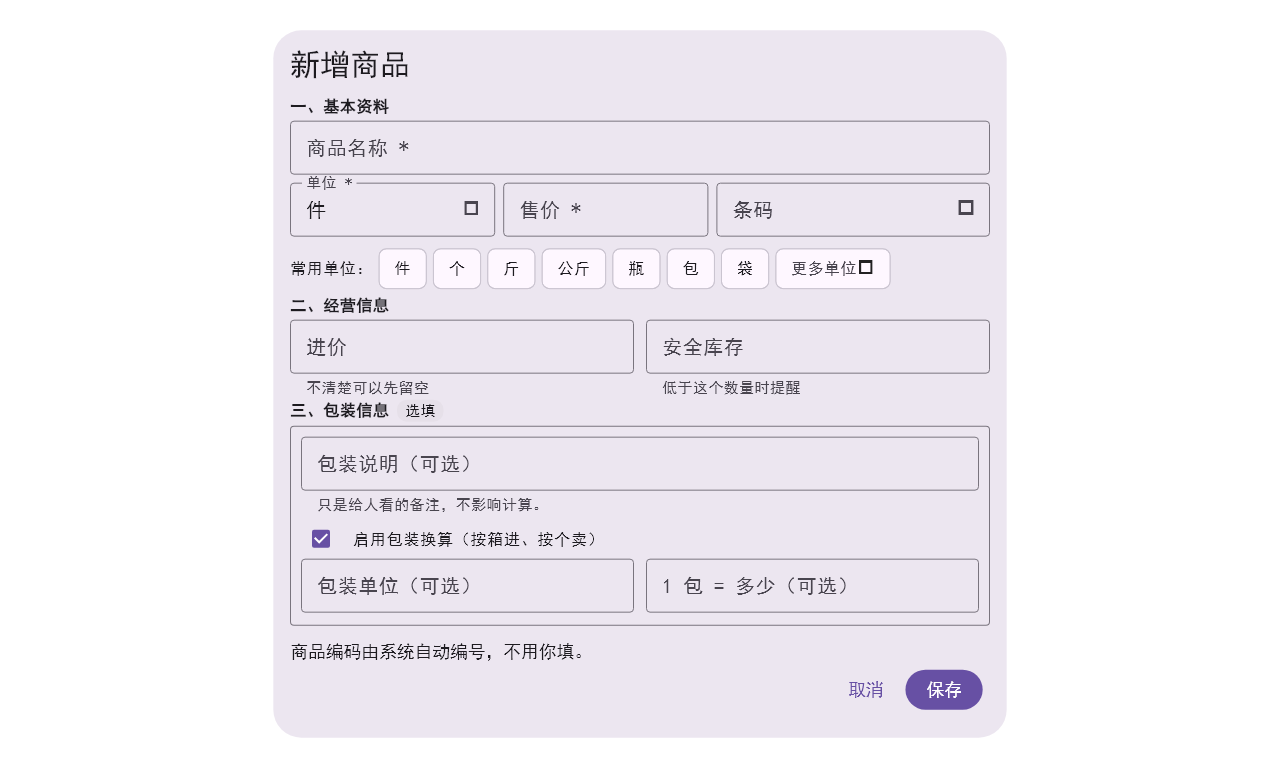
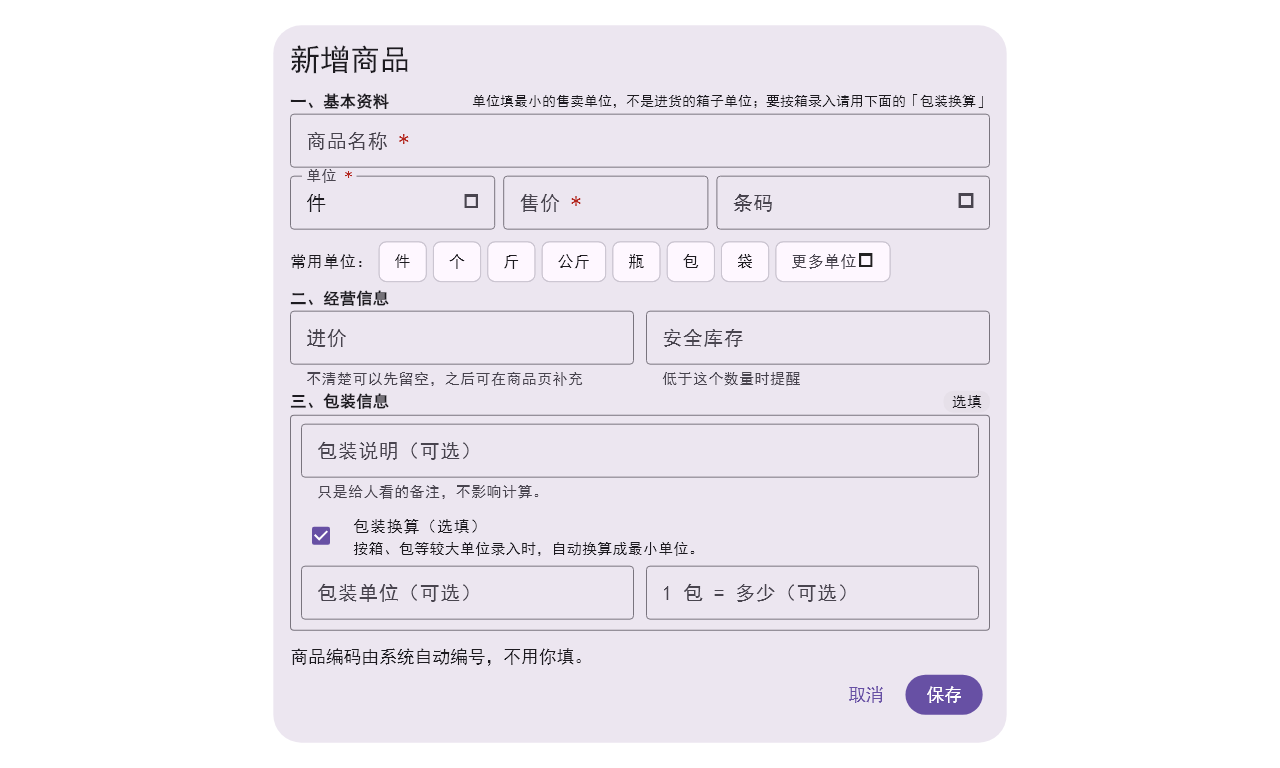
fix(ui): 商品建档文案修正（单位说明指向包装换算·包装提示动态·红星归位）+ 480×360 验收

Changed region(s): [[0.2188, 0.0312, 0.7812, 0.9688], [0.3438, 0.125, 0.7812, 0.1562]]

diff --git a/lib/src/ui/product_form_dialog.dart b/lib/src/ui/product_form_dialog.dart
@@ -412,6 +412,23 @@ class _ProductFormDialogState extends State<_ProductFormDialog> {
     _setUnit(picked);
   }
 
+  /// 包装换算那一行的说明（评审 2026-11-24 问题二：**别把「箱」写死**）。
+  ///
+  /// 一个槽位、两种消息：
+  /// - 没填全 ⇒ 说清它是干什么的；
+  /// - 填全 ⇒ 把它算出来的等式**读回来**（`1 箱 = 24 瓶 —— 开单时可以按「箱」录入。`）。
+  ///   填反了（24 箱 = 1 瓶）用户一眼就能看出来，不用等到开单时才发现。
+  String _packageSummary() {
+    final String unit = _packageUnit.text.trim();
+    final String size = _packageSize.text.trim();
+    if (unit.isEmpty || size.isEmpty) {
+      return '按箱、包等较大单位录入时，自动换算成最小单位。';
+    }
+    final String smallest = _unit.text.trim();
+    return '1 $unit = $size ${smallest.isEmpty ? '个' : smallest}'
+        ' —— 开单时可以按「$unit」录入。';
+  }
+
   /// 分段标题（一、二、三）—— 三段式重排的锚点。
   ///
   /// 为什么值得多花这两行高度：用户要能一眼看出「还有几段没填」。
@@ -420,8 +437,9 @@ class _ProductFormDialogState extends State<_ProductFormDialog> {
     ThemeData theme,
     String text, {
     bool optional = false,
+    String? trailing,
   }) => Padding(
-    padding: const EdgeInsets.only(top: 2, bottom: 4),
+    padding: const EdgeInsets.only(top: 2, bottom: 2),
     child: Row(
       children: <Widget>[
         Text(
@@ -435,6 +453,25 @@ class _ProductFormDialogState extends State<_ProductFormDialog> {
             color: theme.textTheme.bodyMedium?.color,
           ),
         ),
+        // 右侧小字：把一句说明塞进**已经存在的一行**里 —— 不新增高度。
+        // （125% + 768 的高度预算是 0 余量，任何"再加一行"都要付账。）
+        if (trailing != null) ...<Widget>[
+          const SizedBox(width: 10),
+          Expanded(
+            child: Text(
+              trailing,
+              textAlign: TextAlign.right,
+              maxLines: 2,
+              overflow: TextOverflow.ellipsis,
+              style: TextStyle(
+                fontSize: 11,
+                height: 1.3,
+                color: theme.textTheme.bodySmall?.color,
+              ),
+            ),
+          ),
+        ] else
+          const Spacer(),
         if (optional) ...<Widget>[
           const SizedBox(width: 8),
           Container(
@@ -466,7 +503,7 @@ class _ProductFormDialogState extends State<_ProductFormDialog> {
   /// 折叠区最贵的信息是「到底开没开」—— 复选框自己就带这个状态，
   /// 而折叠箭头+标题的组合会让人分不清"点了会展开"还是"点了会启用"。
   Widget _packageBlock(ThemeData theme) => Container(
-    padding: const EdgeInsets.fromLTRB(10, 10, 10, 4),
+    padding: const EdgeInsets.fromLTRB(10, 8, 10, 2),
     decoration: BoxDecoration(
       border: Border.all(color: theme.dividerColor),
       borderRadius: BorderRadius.circular(4),
@@ -496,9 +533,19 @@ class _ProductFormDialogState extends State<_ProductFormDialog> {
           contentPadding: EdgeInsets.zero,
           dense: true,
           visualDensity: VisualDensity.compact,
-          // 副标题删掉（2026-11-24 高度预算）：勾选后能干什么，标题已经把
-          // 「按箱进、按个卖」说完；再挂两行解释，125% 下要多占 40 px。
-          title: const Text('启用包装换算（按箱进、按个卖）'),
+          title: const Text('包装换算（选填）'),
+          // 副标题**一个槽位、两种消息**（评审问题二）：
+          // 没填 ⇒ 说清它是干什么的；填全 ⇒ 直接把它换算出来的等式读回来，
+          // 用户一眼能发现自己把「1 箱 = 24 瓶」填反了。
+          subtitle: Text(
+            _packageSummary(),
+            key: const Key('product-package-summary'),
+            style: TextStyle(
+              fontSize: 12,
+              height: 1.35,
+              color: theme.textTheme.bodySmall?.color,
+            ),
+          ),
         ),
         // 勾选后**平滑展开**两格（`AnimatedSize` 而不是直接跳出来 ——
         // 「凭空多出两行」会让用户以为点错了什么）
@@ -517,8 +564,9 @@ class _ProductFormDialogState extends State<_ProductFormDialog> {
                         child: TextField(
                           controller: _packageUnit,
                           textInputAction: TextInputAction.next,
-                          onChanged: (_) =>
-                              _clearError(ProductField.packageUnit),
+                          onChanged: (_) => setState(
+                            () => _clearError(ProductField.packageUnit),
+                          ),
                           decoration: _decoration(
                             ProductField.packageUnit,
                             label: '包装单位（可选）',
@@ -532,8 +580,9 @@ class _ProductFormDialogState extends State<_ProductFormDialog> {
                           controller: _packageSize,
                           keyboardType: const TextInputType.numberWithOptions(),
                           textInputAction: TextInputAction.next,
-                          onChanged: (_) =>
-                              _clearError(ProductField.packageSize),
+                          onChanged: (_) => setState(
+                            () => _clearError(ProductField.packageSize),
+                          ),
                           decoration: _decoration(
                             ProductField.packageSize,
                             label: '1 包 = 多少（可选）',
@@ -636,7 +685,16 @@ class _ProductFormDialogState extends State<_ProductFormDialog> {
                     // 分区的目的不是"好看"，是让用户**知道还剩多少没填** ——
                     // 旧版一屏铺开，用户填完名称/单位/售价就以为完事了，
                     // 于是进价永远空着、毛利恒为 0（P3 的同一个病根）。
-                    _sectionHeader(theme, '一、基本资料'),
+                    _sectionHeader(
+                      theme,
+                      '一、基本资料',
+                      // 评审问题一：旧文案说「装箱关系写在『包装说明』里」——
+                      // 而真正启用按箱录入的是**包装换算**，包装说明只是备注。
+                      // 这句必须指向「包装换算」，否则用户填了备注就以为能按箱开单。
+                      trailing:
+                          '单位填最小的售卖单位，不是进货的箱子单位；'
+                          '要按箱录入请用下面的「包装换算」',
+                    ),
 
                     TextField(
                       controller: _name,
@@ -644,8 +702,7 @@ class _ProductFormDialogState extends State<_ProductFormDialog> {
                       onChanged: (_) => _clearError(ProductField.name),
                       decoration: _decoration(
                         ProductField.name,
-                        // 必填标红星（`docs/ui_principles.md` §一：必填要显眼）
-                        label: '商品名称 *',
+                        required: true,
                       ),
                     ),
                     const SizedBox(height: 8),
@@ -673,7 +730,7 @@ class _ProductFormDialogState extends State<_ProductFormDialog> {
                             onChanged: (_) => _clearError(ProductField.unit),
                             decoration: _decoration(
                               ProductField.unit,
-                              label: '单位 *',
+                              required: true,
                               hint: '例：桶、箱、捆、扎',
                               suffixIcon: IconButton(
                                 key: const Key('product-unit-pick'),
@@ -697,7 +754,7 @@ class _ProductFormDialogState extends State<_ProductFormDialog> {
                                 _clearError(ProductField.sellPrice),
                             decoration: _decoration(
                               ProductField.sellPrice,
-                              label: '售价 *',
+                              required: true,
                               suffix: '元',
                             ),
                           ),
@@ -712,10 +769,12 @@ class _ProductFormDialogState extends State<_ProductFormDialog> {
                             onChanged: _onBarcodeChanged,
                             decoration: _decoration(
                               ProductField.barcode,
-                              hint: '扫描或输入条码',
+                              // 评审 ③：图标不能让人以为"点一下开摄像头"。
+                              // 扫码枪就是键盘设备 ⇒ 用框内提示说清（不额外占高度）
+                              hint: '扫码枪扫或手填',
                               suffixIcon: IconButton(
                                 key: const Key('product-barcode-scan'),
-                                tooltip: '扫描条码',
+                                tooltip: '把光标放进条码框（扫码枪直接扫进来）',
                                 icon: const Icon(
                                   Icons.qr_code_scanner,
                                   size: 20,
@@ -811,7 +870,7 @@ class _ProductFormDialogState extends State<_ProductFormDialog> {
                             decoration: _decoration(
                               ProductField.costPrice,
                               suffix: '元',
-                              helper: '不清楚可以先留空',
+                              helper: '不清楚可以先留空，之后可在商品页补充',
                             ),
                           ),
                         ),
@@ -914,8 +973,25 @@ class _ProductFormDialogState extends State<_ProductFormDialog> {
     String? hint,
     String? label,
     Widget? suffixIcon,
+    bool required = false,
   }) => InputDecoration(
-    labelText: label ?? field.label,
+    // 必填星号必须是**红色且独立**（`docs/ui_principles.md`）——
+    // 拼进 `labelText` 的星号会跟正文同色，等于没标（用户 2026-11-24 评审 ②）。
+    labelText: required ? null : (label ?? field.label),
+    label: required
+        ? Text.rich(
+            TextSpan(
+              text: label ?? field.label,
+              children: const <InlineSpan>[
+                TextSpan(
+                  text: ' *',
+                  style: TextStyle(color: Color(0xFFB3261E)),
+                ),
+              ],
+            ),
+          )
+        : null,
+    floatingLabelBehavior: FloatingLabelBehavior.auto,
     suffixText: suffix,
     suffixIcon: suffixIcon,
     // 字段级错误直接挂在这一栏下面 —— 用户不用猜是哪一栏填错了

diff --git a/test/product_form_dialog_test.dart b/test/product_form_dialog_test.dart
@@ -64,23 +64,31 @@ void main() {
     await tester.pumpAndSettle();
   }
 
+  /// 把 `InputDecoration` 上的标签还原成纯文字（去掉红色星号）。
+  ///
+  /// 两种形态都要认：普通字段用 `labelText`，必填字段用 `label: Text.rich`
+  /// （星号是**红色且独立**的，不能再拼进 labelText —— 那样是黑的，等于没标）。
+  String? plainLabel(InputDecoration? d) {
+    String? raw = d?.labelText;
+    final Widget? labelWidget = d?.label;
+    if (raw == null && labelWidget is Text) {
+      raw = labelWidget.textSpan?.toPlainText() ?? labelWidget.data;
+    }
+    return raw?.replaceAll(' *', '').trim();
+  }
+
   /// 按 labelText / hintText 定位输入框 —— hint 是单位框唯一可辨别的锚点。
   /// ⚠ 参数是**过滤条件**：`null` = 不限制，**不是**「要求该字段等于 null」
   /// （几乎每个框都有 label 和 hint，按「等于 null」匹配永远落空——
   /// 2026-09-30 四条测试同挂这一处的教训）。
-  Finder field({String? label, String? hint}) => find.byWidgetPredicate((
-    Widget w,
-  ) {
-    if (w is! TextField) return false;
-    final InputDecoration? d = w.decoration;
-    // 2026-11-24：必填字段的 label 带红色星号（`商品名称 *`），
-    // 定位时两种写法都认 —— 不为了星号把所有用例的锚点改一遍。
-    if (label != null && d?.labelText != label && d?.labelText != '$label *') {
-      return false;
-    }
-    if (hint != null && d?.hintText != hint) return false;
-    return true;
-  });
+  Finder field({String? label, String? hint}) =>
+      find.byWidgetPredicate((Widget w) {
+        if (w is! TextField) return false;
+        final InputDecoration? d = w.decoration;
+        if (label != null && plainLabel(d) != label) return false;
+        if (hint != null && d?.hintText != hint) return false;
+        return true;
+      });
 
   // ⚠ 必须是局部 final 变量，**不能写 `get`**：getter 只能放在类 / 库顶层，
   // 写在 main() 里是语法错误（startup_test.dart 查找器一节的老坑，2026-09-29 又踩一次）
@@ -201,13 +209,20 @@ void main() {
     // 原意（「按箱建档后卖 1 个就出小数库存」）改由两件事承担：
     // ① 单位框**只读**、值只能来自「常用单位」/「更多单位」—— 用户打不进「箱」；
     // ② 包装区块的勾选框文案「启用包装换算（按箱进、按个卖）」把它说清楚了。
+    // 2026-11-24 评审（问题一）：这句回来了，但**必须指向「包装换算」**——
+    // 旧文案说「装箱关系写在『包装说明』里」会让人以为填备注就能按箱开单。
     expect(
       find.textContaining('单位填最小的售卖单位'),
-      findsNothing,
-      reason: '说明文字已删（用户 2026-11-24），不要偷偷加回来',
+      findsOneWidget,
+      reason: '说明挂在「一、基本资料」标题右侧（不额外占一行高度）',
+    );
+    expect(
+      find.textContaining('要按箱录入请用下面的「包装换算」'),
+      findsOneWidget,
+      reason: '评审问题一：必须指向「包装换算」，不是「包装说明」',
     );
     expect(find.text('包装说明（可选）'), findsOneWidget);
-    expect(find.textContaining('按箱进、按个卖'), findsOneWidget);
+    expect(find.text('包装换算（选填）'), findsOneWidget);
   });
 
   testWidgets('AI-5 端到端：带包装说明建档 → 库里 package_note 有值', (
@@ -460,7 +475,7 @@ void main() {
       expect(field(label: '1 包 = 多少（可选）'), findsNothing);
 
       // 折叠区在页面底部 —— **先滚到它再点**（`tap` 落空只 warn 不报错）
-      final Finder toggle = find.text('启用包装换算（按箱进、按个卖）');
+      final Finder toggle = find.text('包装换算（选填）');
       await tester.ensureVisible(toggle);
       await tester.pumpAndSettle();
       await tester.tap(toggle);
@@ -513,6 +528,33 @@ void main() {
       expect(unit.controller!.text, '箱', reason: '已配置的换算必须回填，不能被折叠藏起来');
       expect(size.controller!.text, '24');
     });
+  });
+
+  // ============================================================ 小屏验收（2026-11-24）
+  //
+  // `docs/reply.md` 要求：800×600 / 480×360 / 2 倍字号三档都要能过。
+  // 800×600 与 2.0 已由上面的 P3 组与大字号组覆盖；这里补**最小档 480×360**。
+  // 这一档必然要滚动（弹窗本身放不下），判据只有一条：**不许有 RenderFlex 溢出**
+  //（Flutter 的溢出在测试里是异常，不只是黄条）。
+  testWidgets('480×360：不溢出（允许滚动，不许越界）', (WidgetTester tester) async {
+    tester.view.physicalSize = const Size(480, 360);
+    tester.view.devicePixelRatio = 1.0;
+    addTearDown(tester.view.reset);
+
+    await openForm(tester);
+
+    expect(
+      tester.takeException(),
+      isNull,
+      reason: '480×360 是窗口最小尺寸（480×360）那一档，会滚但不许溢出',
+    );
+    // 展开包装换算后再验一次（展开才是最高的一档）
+    final Finder check = find.text('包装换算（选填）');
+    await tester.ensureVisible(check);
+    await tester.pumpAndSettle();
+    await tester.tap(check);
+    await tester.pumpAndSettle();
+    expect(tester.takeException(), isNull, reason: '展开态是最高的一档');
   });
 }
 

diff --git a/docs/reply_review.md b/docs/reply_review.md
@@ -22718,3 +22718,48 @@ python perf_bench.py --db "C:/Users/yzx/神算子数据/shensuanzi.db" --cold --
 #### ⑥ 门禁
 
 `flutter analyze` **0** · root `flutter test` **626**（1 条按平台跳过）。
+
+### 一百二十八、2026-11-24 **商品建档文案修正（评审三处 + 交互三查）**
+
+> 评审（`docs/reply.md`，提交 `246539` 那版）只要求**改文案**与**核三个交互细节**，
+> 布局不再动。以下逐条对齐。
+
+#### ① 文案三处
+
+| # | 旧 | 新 |
+|---|---|---|
+| 一 | 「单位填最小的售卖单位…装箱关系写在下面的**「包装说明」**里」 | 「单位填最小的售卖单位，不是进货的箱子单位；**要按箱录入请用下面的「包装换算」**」 |
+| 二 | 「两格都填，开单就能按**「箱」**录入」（把箱写死） | **动态**：没填全 ⇒ 「按箱、包等较大单位录入时，自动换算成最小单位。」；填全 ⇒ 「**1 箱 = 24 瓶** —— 开单时可以按「箱」录入。」（填反了一眼看得出） |
+| 三 | 「不清楚可以先留空」 | 「不清楚可以先留空，**之后可在商品页补充**」 |
+
+问题一那句**挂在「一、基本资料」标题的右侧**（`maxLines: 2`，右对齐）—— 125% 下高度预算
+已经为 0，任何"再加一行说明"都要付账，塞进已存在的行里是唯一不付费的位置。
+
+#### ② 交互三查
+
+| # | 结论 | 处置 |
+|---|---|---|
+| ① 必填红星是不是红色 | **原来是黑的**（拼在 `labelText` 里，跟正文同色） | 改 `label: Text.rich`，星号单独 `#B3261E`；`labelText` 置空 |
+| ② 折叠标题 | 原「启用包装换算」+ 箭头 | 改「**包装换算（选填）**」+ 一行说明；仍是 Checkbox（用户上一轮点名要复选框）；新建收起、**编辑已配置自动展开**不变 |
+| ③ 条码图标会不会被当成摄像头 | 原 `tooltip: 扫描条码` + `qr_code_scanner` 确实容易误会 | 框内提示改「**扫码枪扫或手填**」，tooltip 改「把光标放进条码框（扫码枪直接扫进来）」 |
+
+#### ③ 高度：改完超了 7.3 px，又压回来
+
+新增一行说明（+~20px）后 `maxScrollExtent = 7.3`；把包装块内边距 `10→8/2`、
+段标题下边距 `4→2` 之后回到 **`0.0`**（viewport 582，125% + 768 + 展开态）。
+
+效果图（已更新）：`docs/界面精修后截图/20261124-商品建档-125%-展开包装换算.png`
+—— 红星红、标题右侧说明、包装区块与保存按钮同屏。
+
+#### ④ 用例
+
+| 用例 | 改动 |
+|---|---|
+| `field(label:)` 助手 | 新增 `plainLabel()`：`labelText` 与 `label: Text.rich` 两种形态都还原成纯文字 |
+| `AI-5` | 单位说明改为**必须存在且指向「包装换算」**（旧断言"已删除"作废 —— 评审要求它回来） |
+| `三段式` | 勾选框文案 → 「包装换算（选填）」 |
+| **新增** | `480×360：不溢出（允许滚动，不许越界）` —— 补上 reply.md 要的三档中最小的那一档 |
+
+#### ⑤ 门禁
+
+`flutter analyze` **0** · root `flutter test` **627**（1 条按平台跳过；+1）。
